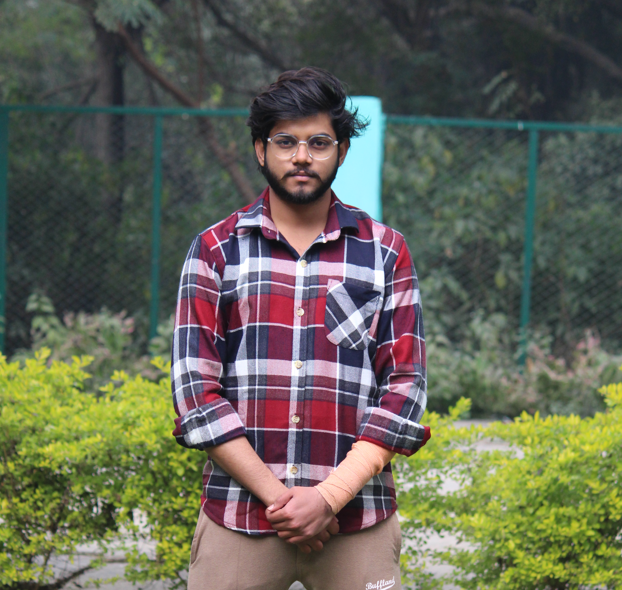
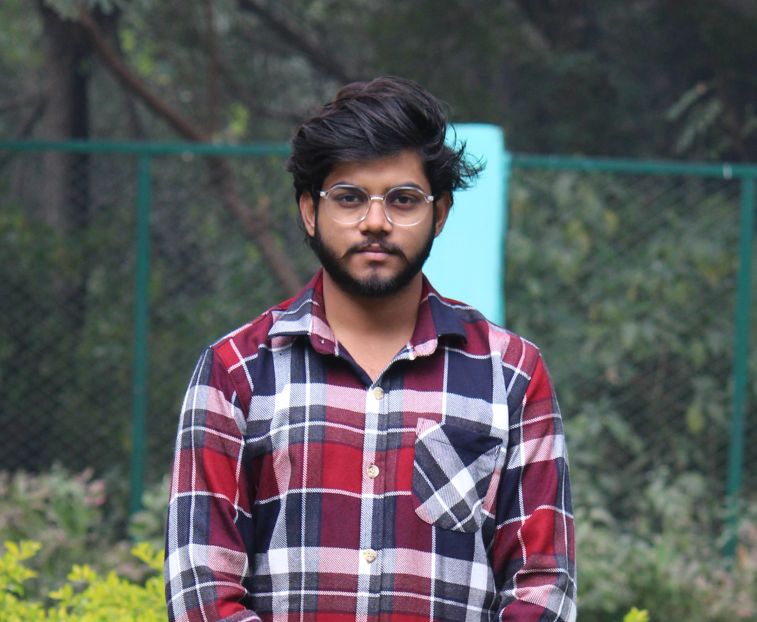
Change Picture and Intro

diff --git a/src/components/about/About.jsx b/src/components/about/About.jsx
@@ -13,7 +13,8 @@ const About = () => {
             <div className="about__data">
                 <Info />
                 <p className="about__description"> 
-                Hey, my name is Prayas Jadaun. I adore building dynamic, user-focused applications, and I'm an eager Flutter developer. Designing scalable and effective solutions is my goal, and I have a strong foundation in AWS Cloud Computing. Because of my commitment to lifelong learning, I'm constantly experimenting with new technologies and pushing the envelope in order to develop meaningful, user-driven experiences. Together, let's create something truly remarkable.
+                Part-time widget whiz, full-time Flutter fan! Equipped with my reliable set of tools, which includes widgets and Bloc patterns, I approach the field of app creation with enthusiasm and accuracy. A well-designed software, in my opinion, is like the ideal animation: responsive, fluid, and astounds users. When I'm not creating dynamic user interfaces, you can probably find me battling layout restrictions or state management issues. Every application I create using Flutter is an experience in creating something aesthetically pleasing, pixel-perfect, and intuitive!
+            
                 </p>
 
                 <a download="" href={CV} className="button button--flex"> Download Resume

diff --git a/src/components/home/Data.jsx b/src/components/home/Data.jsx
@@ -58,7 +58,7 @@ const Data = () => {
     <h3 className="home__subtitle">
         Flutter Developer
     </h3>
-    <p className="home__description">Part-time widget whiz, full-time Flutter fan! Equipped with my reliable set of tools, which includes widgets and Bloc patterns, I approach the field of app creation with enthusiasm and accuracy. A well-designed software, in my opinion, is like the ideal animation: responsive, fluid, and astounds users. When I'm not creating dynamic user interfaces, you can probably find me battling layout restrictions or state management issues. Every application I create using Flutter is an experience in creating something aesthetically pleasing, pixel-perfect, and intuitive!</p>
+    <p className="home__description">Hey, my name is Prayas Jadaun. I adore building dynamic, user-focused applications, and I'm an eager Flutter developer. Designing scalable and effective solutions is my goal, and I have a strong foundation in AWS Cloud Computing. Because of my commitment to lifelong learning, I'm constantly experimenting with new technologies and pushing the envelope in order to develop meaningful, user-driven experiences. Together, let's create something truly remarkable.</p>
     <a href="#contact" className="button button--flex">
         Say Hello
         <svg
